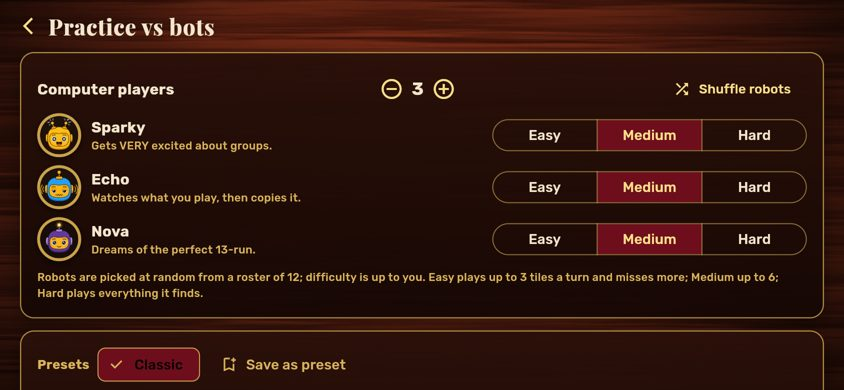
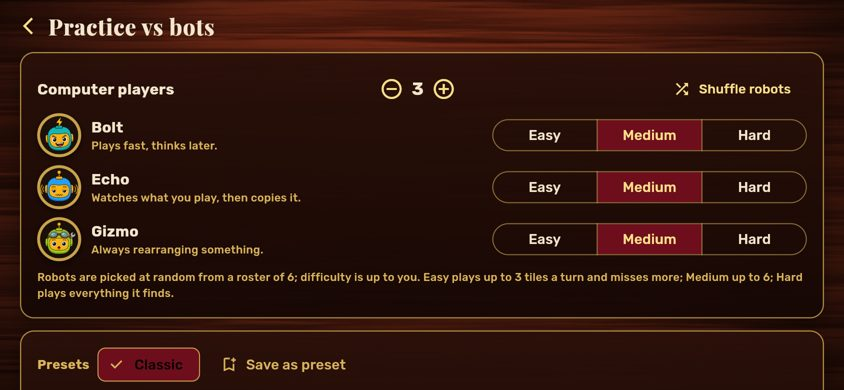
Final roster of 6 robots (cut Pixel, Sparky, Lumi, Clank, Tank, Duke); version 0.1.2+3

diff --git a/test/roster_test.dart b/test/roster_test.dart
@@ -5,11 +5,11 @@ import 'package:flutter_test/flutter_test.dart';
 import 'package:michikub/app/bot_roster.dart';
 
 void main() {
-  test('roster has the 12 final robots with unique ids, names, taglines and avatars', () {
+  test('roster has the 6 final robots with unique ids, names, taglines and avatars', () {
     expect(robotRoster.map((r) => r.name).toList(),
-        ['Bolt', 'Cogsworth', 'Pixel', 'Rusty', 'Nova', 'Clank', 'Echo', 'Gizmo', 'Sparky', 'Tank', 'Lumi', 'Duke']);
+        ['Bolt', 'Cogsworth', 'Rusty', 'Nova', 'Echo', 'Gizmo']);
     for (final f in <Object Function(RobotProfile)>[(r) => r.id, (r) => r.name, (r) => r.tagline, (r) => r.avatar]) {
-      expect(robotRoster.map(f).toSet().length, 12);
+      expect(robotRoster.map(f).toSet().length, 6);
     }
     for (final r in robotRoster) {
       expect(r.tagline, isNotEmpty);
@@ -28,9 +28,9 @@ void main() {
         seen.addAll(p.map((r) => r.id));
       }
     }
-    expect(seen.length, 12, reason: 'every robot gets picked sometimes');
-    final rest = robotRoster.skip(10).map((r) => r.id).toSet();
-    final excluded = robotRoster.take(10).map((r) => r.id).toSet();
+    expect(seen.length, 6, reason: 'every robot gets picked sometimes');
+    final rest = robotRoster.skip(4).map((r) => r.id).toSet();
+    final excluded = robotRoster.take(4).map((r) => r.id).toSet();
     expect(pickRobots(3, exclude: excluded).map((r) => r.id).toSet(), rest);
   });
 }

diff --git a/lib/app/bot_roster.dart b/lib/app/bot_roster.dart
@@ -17,16 +17,10 @@ class RobotProfile {
 const List<RobotProfile> robotRoster = [
   RobotProfile('bolt', 'Bolt', 'Plays fast, thinks later.', 'assets/bots/robot_bolt.png'),
   RobotProfile('cogsworth', 'Cogsworth', 'Sorts every rack, judges yours.', 'assets/bots/robot_cogsworth.png'),
-  RobotProfile('pixel', 'Pixel', 'Loves a sneaky joker.', 'assets/bots/robot_pixel.png'),
   RobotProfile('rusty', 'Rusty', 'Been playing since tiles were wood.', 'assets/bots/robot_rusty.png'),
   RobotProfile('nova', 'Nova', 'Dreams of the perfect 13-run.', 'assets/bots/robot_nova.png'),
-  RobotProfile('clank', 'Clank', 'Loud, lucky, and a little clumsy.', 'assets/bots/robot_clank.png'),
   RobotProfile('echo', 'Echo', 'Watches what you play, then copies it.', 'assets/bots/robot_echo.png'),
   RobotProfile('gizmo', 'Gizmo', 'Always rearranging something.', 'assets/bots/robot_gizmo.png'),
-  RobotProfile('sparky', 'Sparky', 'Gets VERY excited about groups.', 'assets/bots/robot_sparky.png'),
-  RobotProfile('tank', 'Tank', 'Says nothing. Wins anyway.', 'assets/bots/robot_tank.png'),
-  RobotProfile('lumi', 'Lumi', 'Kind, cheerful, secretly ruthless.', 'assets/bots/robot_lumi.png'),
-  RobotProfile('duke', 'Duke', 'Considers himself royalty of the table.', 'assets/bots/robot_duke.png'),
 ];
 
 /// Picks [n] different robots at random, skipping any ids in [exclude].

diff --git a/DESIGN_QUESTIONS.md b/DESIGN_QUESTIONS.md
@@ -46,21 +46,15 @@ Most numbers live in a small set of constants: `BotTuning` (lib/engine/bot.dart)
 32. **What may a bot do with under 5 seconds left?** Bots plan their turn as *moves*: groups of actions that each finish with a valid table (today, each new set and each extension is its own one-action move). With under 5 s left and a valid table, a bot only starts a move whose every action keeps the table valid. Otherwise it ends its turn right away instead of risking a reset. The 5 s is `BotTuning.safeZoneMs`. *Why:* this is your rule, and moves that end valid make the check simple and reliable. It's covered by unit tests in `test/bot_timer_test.dart`.
 33. **What can bots do on the table?** They put down new sets and extend the ends of existing sets. They don't rearrange or split sets. *Why:* it's simple, legal, and beatable. Hard bots that rearrange could come later.
 34. **What if a bot's tile cap stops it reaching the first-meld minimum?** It draws. *Why:* an Easy bot should sometimes struggle to get started.
-35. **Bot names and avatars?** There's a final roster of 12 robots in `lib/app/bot_roster.dart`. Each has an id, name, tagline and avatar picture in `assets/bots/robot_<name>.png`, scaled down from the 512 px art to 256 px:
+35. **Bot names and avatars?** There's a final roster of 6 robots (Pixel, Sparky, Lumi, Clank, Tank and Duke were cut from the earlier 12) in `lib/app/bot_roster.dart`. Each has an id, name, tagline and avatar picture in `assets/bots/robot_<name>.png`, scaled down from the 512 px art to 256 px:
     - Bolt: "Plays fast, thinks later."
     - Cogsworth: "Sorts every rack, judges yours."
-    - Pixel: "Loves a sneaky joker."
     - Rusty: "Been playing since tiles were wood."
     - Nova: "Dreams of the perfect 13-run."
-    - Clank: "Loud, lucky, and a little clumsy."
     - Echo: "Watches what you play, then copies it."
     - Gizmo: "Always rearranging something."
-    - Sparky: "Gets VERY excited about groups."
-    - Tank: "Says nothing. Wins anyway."
-    - Lumi: "Kind, cheerful, secretly ruthless."
-    - Duke: "Considers himself royalty of the table."
 
-    Practice setup picks N different robots at random as soon as it opens. It shows each robot's picture, name and tagline next to its difficulty choice, and Shuffle robots picks again. Difficulty is separate, so any robot can be Easy, Medium or Hard, and the level is added to the name in game, for example "Pixel (Medium)". Long-press a robot's avatar at the table to see its tagline. Bots added to an online lobby take a robot nobody at the table is using, and the lobby shows their level and tagline. The personalities are flavour only for now: every robot of the same difficulty plays the same way. *Why:* you approved this roster. Making the taglines change how each robot plays (Echo copying you, Sparky preferring groups) is a possible later step.
+    Practice setup picks N different robots at random as soon as it opens. It shows each robot's picture, name and tagline next to its difficulty choice, and Shuffle robots picks again. Difficulty is separate, so any robot can be Easy, Medium or Hard, and the level is added to the name in game, for example "Nova (Medium)". Long-press a robot's avatar at the table to see its tagline. Bots added to an online lobby take a robot nobody at the table is using, and the lobby shows their level and tagline. The personalities are flavour only for now: every robot of the same difficulty plays the same way. *Why:* you approved this roster. Making the taglines change how each robot plays (Echo copying you, Gizmo always rearranging) is a possible later step.
 36. **Can bots fill empty seats online?** Yes, the host can add Easy, Medium or Hard bots in the lobby. *Why:* a 2-person online game can become a 4-player table.
 
 ## D. Online play

diff --git a/README.md b/README.md
@@ -15,7 +15,7 @@ An ad-free number-tile game for 2 to 4 friends. Phones connect directly to each 
 - **The table**: a mahogany table, a crimson velvet rack (10 per row, sliding up for a second row), gold face-down tiles for opponents, flying draw and play animations, and large suit symbols.
 - **Gestures**: drag anywhere. Long-press a rack tile to grab its run or group. Long-press a table set to move it. Double-tap to split a set. Tap a tile then tap a set to auto-place it. A Make space button and an invisible 27-space snap grid with automatic room-making.
 
-Computer players are picked at random from a roster of 12 robots, each with a picture and a tagline (`lib/app/bot_roster.dart`, `assets/bots/`). Practice setup shows who you're up against, and long-pressing a robot's avatar at the table shows its tagline. They decide a turn instantly and then play it out one action at a time: 2 s per new set, 1 s per split or set move, and 0.5 s per single tile. They follow the turn timer like everyone else.
+Computer players are picked at random from a roster of 6 robots, each with a picture and a tagline (`lib/app/bot_roster.dart`, `assets/bots/`). Practice setup shows who you're up against, and long-pressing a robot's avatar at the table shows its tagline. They decide a turn instantly and then play it out one action at a time: 2 s per new set, 1 s per split or set move, and 0.5 s per single tile. They follow the turn timer like everyone else.
 
 All play, solo modes included, goes through the same rules engine (`lib/engine/`): the host's phone validates every move.
 
